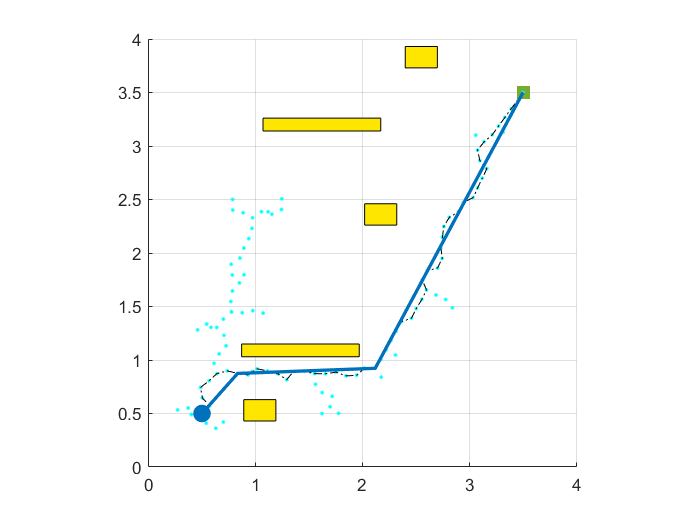
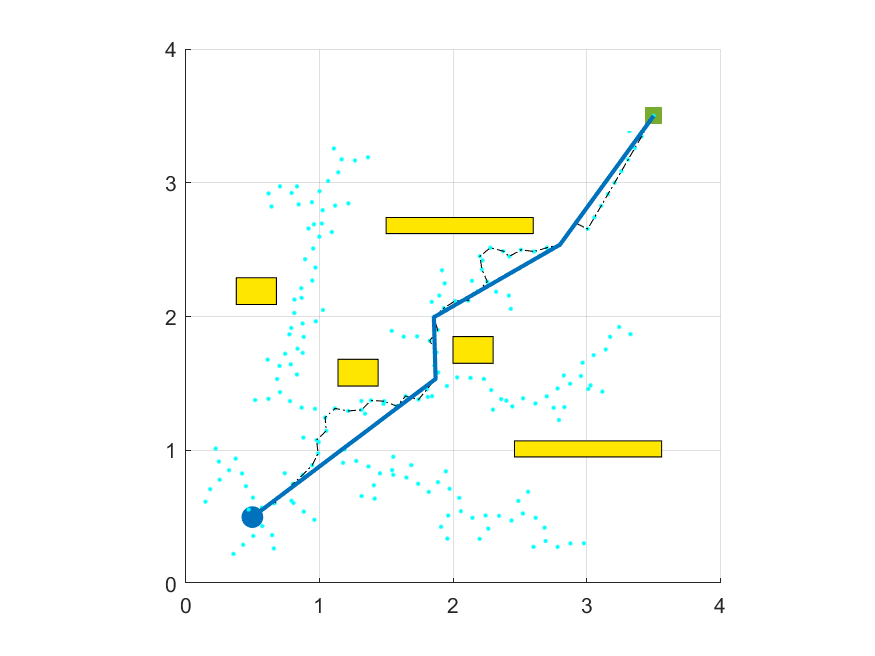
add save figure

diff --git a/main.m b/main.m
@@ -33,6 +33,10 @@ plot(optimalPathCoors(:, 1), optimalPathCoors(:, 2), ...
     'LineWidth', 2, 'Color', [0 0.4470 0.7410]);
 path = optimalPathCoors;
 
+saveas(gcf,'assets/RRT_result.png')
+
+pause(1);
+
 %% Robot initialization and Path following
 robotInitialLocation = path(1,:);
 robotGoal = path(end,:);
@@ -80,10 +84,11 @@ while( distanceToGoal > goalRadius )
     
     % Plot path each instance so that it stays persistent while robot mesh
     % moves
-    plot(path(:, 1), path(:, 2), 'LineWidth', 2, 'Color', [0 0.4470 0.7410]);
+    plot(pathCoors(:, 1), pathCoors(:, 2), 'k-.');
     axis equal
     grid on
     hold all
+    plot(path(:, 1), path(:, 2), 'LineWidth', 2, 'Color', [0 0.4470 0.7410]);
     drawMapInLoop(start, goal, obstacles);
     plot(trajectory(:, 1), trajectory(:, 2), ...
     'LineWidth', 2, 'Color', [0.3010 0.7450 0.9530]);
@@ -95,6 +100,9 @@ while( distanceToGoal > goalRadius )
     light;
     xlim([0 4]);
     ylim([0 4]);
+    xticks(0:1:4);
+    yticks(0:1:4);
     waitfor(vizRate);
 end
 
+saveas(gcf,'assets/final_result.png')

diff --git a/initMap.m b/initMap.m
@@ -7,6 +7,8 @@ hold on
 
 xlim([0 4]);
 ylim([0 4]);
+xticks(0:1:4);
+yticks(0:1:4);
 
 mapSize = [4, 4]; % [width, height]
 start = [0.5 0.5];
